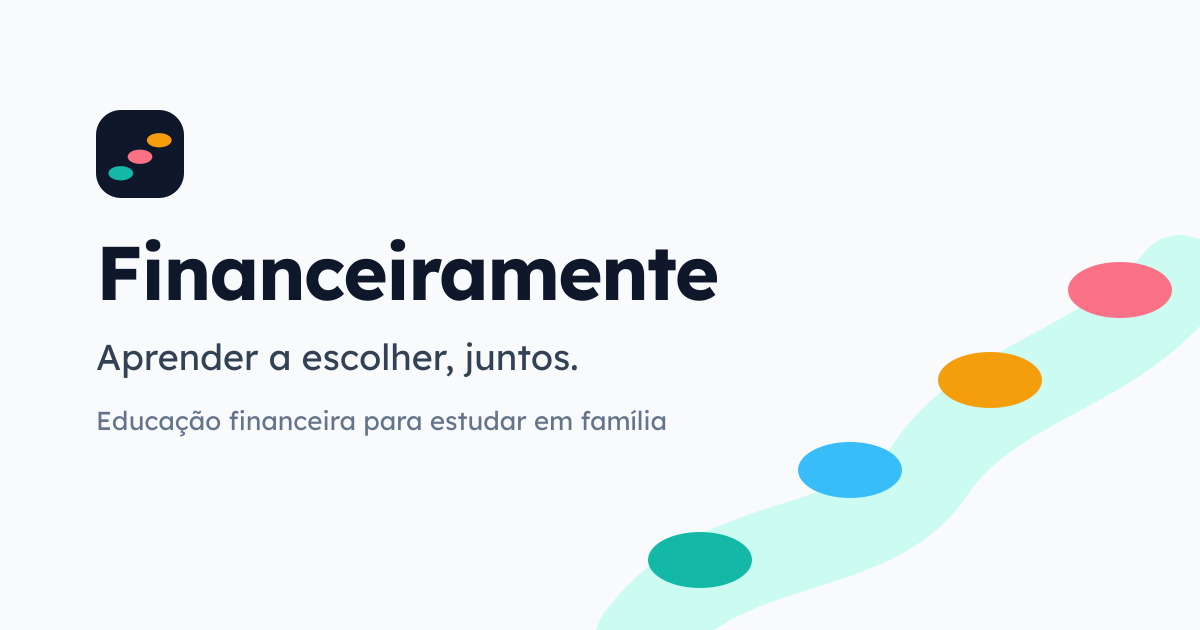
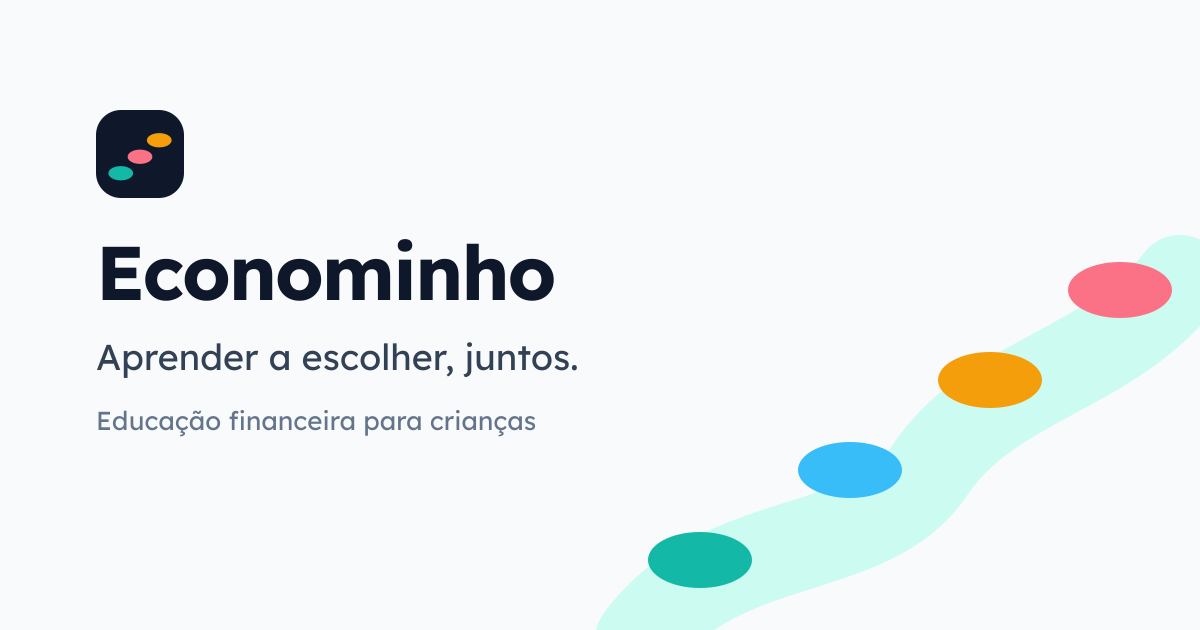
feat(marca): textos visíveis como Econominho e guia com placeholder neutro
Claude-Session: https://claude.ai/code/session_01NytpAGNTnMRSbdkYTMAr3E

Changed region(s): [[0.0925, 0.3619, 0.6167, 0.4825], [0.37, 0.6333, 0.555, 0.6937]]

diff --git a/components/econominho/EconominhoGuide.tsx b/components/econominho/EconominhoGuide.tsx
@@ -1,0 +1,94 @@
+import type { ReactNode } from 'react';
+
+import type { GuideState } from '@/lib/content/types';
+import { t } from '@/lib/content/ui';
+
+import { econominhoAssets, guideStatePresentation } from './assets';
+
+type Props = {
+  /** Fala editorial vinda do conteúdo (module.json → guide). */
+  text: string;
+  state: GuideState;
+  /** `bubble`: balão destacado (aberturas). `inline`: discreto, dentro da lição. */
+  variant?: 'bubble' | 'inline';
+  /** Espaço reservado para a arte aprovada; sobrepõe o marcador neutro. */
+  avatar?: ReactNode;
+  className?: string;
+};
+
+/**
+ * Econominho, o guia pedagógico. Nesta etapa só a função editorial está
+ * implementada: perguntar, apresentar descobertas, ajudar a comparar,
+ * explicar consequências, resumir e estimular reflexão.
+ *
+ * VISUAL DO PERSONAGEM — PENDENTE DE APROVAÇÃO: o avatar é um marcador
+ * neutro (balão de fala). Ver components/econominho/assets.ts.
+ */
+export function EconominhoGuide({
+  text,
+  state,
+  variant = 'inline',
+  avatar,
+  className = '',
+}: Props) {
+  const presentation = guideStatePresentation[state];
+  const src = econominhoAssets.enabled ? econominhoAssets.avatar[state] : undefined;
+  const size = variant === 'bubble' ? 'size-12' : 'size-10';
+
+  return (
+    <figure
+      data-guide-state={state}
+      data-guide-pose={presentation.pose}
+      data-guide-expression={presentation.expression}
+      className={`flex items-start gap-3 ${className}`}
+    >
+      <span className={`${size} shrink-0`}>
+        {avatar ??
+          (src ? (
+            // eslint-disable-next-line @next/next/no-img-element -- arte local e estática
+            <img src={src} alt="" className="size-full" />
+          ) : (
+            <GuidePlaceholder />
+          ))}
+      </span>
+      <figcaption
+        className={
+          'relative min-w-0 flex-1 rounded-card rounded-tl-md px-4 py-3 ' +
+          (variant === 'bubble' ? 'bg-surface shadow-card' : 'bg-accent-soft')
+        }
+      >
+        <span className="block text-caption font-semibold text-accent-strong">
+          {t('guideName')}
+        </span>
+        <span className={variant === 'bubble' ? 'text-lead font-medium' : 'font-medium'}>
+          {text}
+        </span>
+      </figcaption>
+    </figure>
+  );
+}
+
+/** Marcador neutro e provisório: círculo com balão de fala. Não é o personagem. */
+function GuidePlaceholder() {
+  return (
+    <svg viewBox="0 0 48 48" className="size-full" aria-hidden focusable={false}>
+      <circle cx={24} cy={24} r={23} fill="var(--accent-tint)" />
+      <circle
+        cx={24}
+        cy={24}
+        r={22}
+        fill="none"
+        stroke="var(--accent-strong)"
+        strokeWidth={1.5}
+        strokeDasharray="3 4"
+      />
+      <path
+        d="M15 17h18a3 3 0 0 1 3 3v8a3 3 0 0 1-3 3h-9l-5 4v-4h-4a3 3 0 0 1-3-3v-8a3 3 0 0 1 3-3Z"
+        fill="var(--accent-strong)"
+      />
+      <circle cx={19.5} cy={24} r={1.6} fill="white" />
+      <circle cx={24} cy={24} r={1.6} fill="white" />
+      <circle cx={28.5} cy={24} r={1.6} fill="white" />
+    </svg>
+  );
+}

diff --git a/components/econominho/assets.ts b/components/econominho/assets.ts
@@ -1,0 +1,35 @@
+import type { GuideState } from '@/lib/content/types';
+
+/**
+ * Ponto único de integração da arte do Econominho.
+ *
+ * VISUAL DO PERSONAGEM — PENDENTE DE APROVAÇÃO.
+ * Enquanto a identidade visual não for aprovada, nenhum asset é registrado e
+ * o guia usa um marcador neutro. Quando a arte chegar, registrar aqui um
+ * arquivo por pose/expressão (ex.: public/econominho/ask.svg) e ativar
+ * `enabled`. Nenhum componente precisa mudar.
+ */
+export type GuidePose = 'wave' | 'point' | 'think' | 'show' | 'celebrate-idea';
+export type GuideExpression = 'curious' | 'surprised' | 'attentive' | 'calm' | 'happy';
+
+/** Pose e expressão sugeridas para cada intenção de fala (docs/econominho-guide.md). */
+export const guideStatePresentation: Record<
+  GuideState,
+  { pose: GuidePose; expression: GuideExpression }
+> = {
+  ask: { pose: 'think', expression: 'curious' },
+  discover: { pose: 'show', expression: 'surprised' },
+  compare: { pose: 'point', expression: 'attentive' },
+  consequence: { pose: 'point', expression: 'attentive' },
+  summary: { pose: 'celebrate-idea', expression: 'happy' },
+  reflect: { pose: 'think', expression: 'calm' },
+};
+
+export const econominhoAssets: {
+  enabled: boolean;
+  /** Caminho da imagem por estado, quando houver arte aprovada. */
+  avatar: Partial<Record<GuideState, string>>;
+} = {
+  enabled: false,
+  avatar: {},
+};

diff --git a/public/sw.js b/public/sw.js
@@ -1,5 +1,5 @@
 /*
- * Service worker do Financeiramente.
+ * Service worker do Econominho (caches com prefixo técnico "fm-", mantido).
  *
  * Objetivo: abrir rápido e funcionar sem conexão nas páginas já visitadas,
  * sem nunca prender o visitante numa versão antiga do conteúdo.
@@ -15,7 +15,7 @@
  * Ao publicar mudança NESTE arquivo, incrementar VERSION: o worker antigo
  * apaga os caches de versões anteriores na ativação.
  */
-const VERSION = 'v1';
+const VERSION = 'v2';
 const PAGES = `fm-pages-${VERSION}`;
 const STATIC = `fm-static-${VERSION}`;
 const ASSETS = `fm-assets-${VERSION}`;

diff --git a/app/manifest.ts b/app/manifest.ts
@@ -8,7 +8,7 @@ export const dynamic = 'force-static';
 export default function manifest(): MetadataRoute.Manifest {
   return {
     id: '/',
-    name: `${t('appName')}: ${t('appTagline')}`,
+    name: `${t('appName')} — ${t('appTagline')}`,
     short_name: t('appName'),
     description: t('siteDescription'),
     lang: 'pt-BR',

diff --git a/app/layout.tsx b/app/layout.tsx
@@ -23,7 +23,7 @@ const lexend = localFont({
 export const metadata: Metadata = {
   metadataBase: new URL(siteUrl),
   title: {
-    default: `${t('appName')}: ${t('appTagline')}`,
+    default: `${t('appName')} — ${t('appTagline')}`,
     template: `%s | ${t('appName')}`,
   },
   description: t('siteDescription'),

diff --git a/theme/tokens.ts b/theme/tokens.ts
@@ -1,5 +1,5 @@
 /**
- * Design System do Financeiramente — tokens em TypeScript.
+ * Design System do Econominho — tokens em TypeScript.
  *
  * Fonte única das cores usadas fora do CSS (ilustrações SVG, manifest do PWA,
  * metadata). O CSS (styles/globals.css) declara os mesmos valores como
